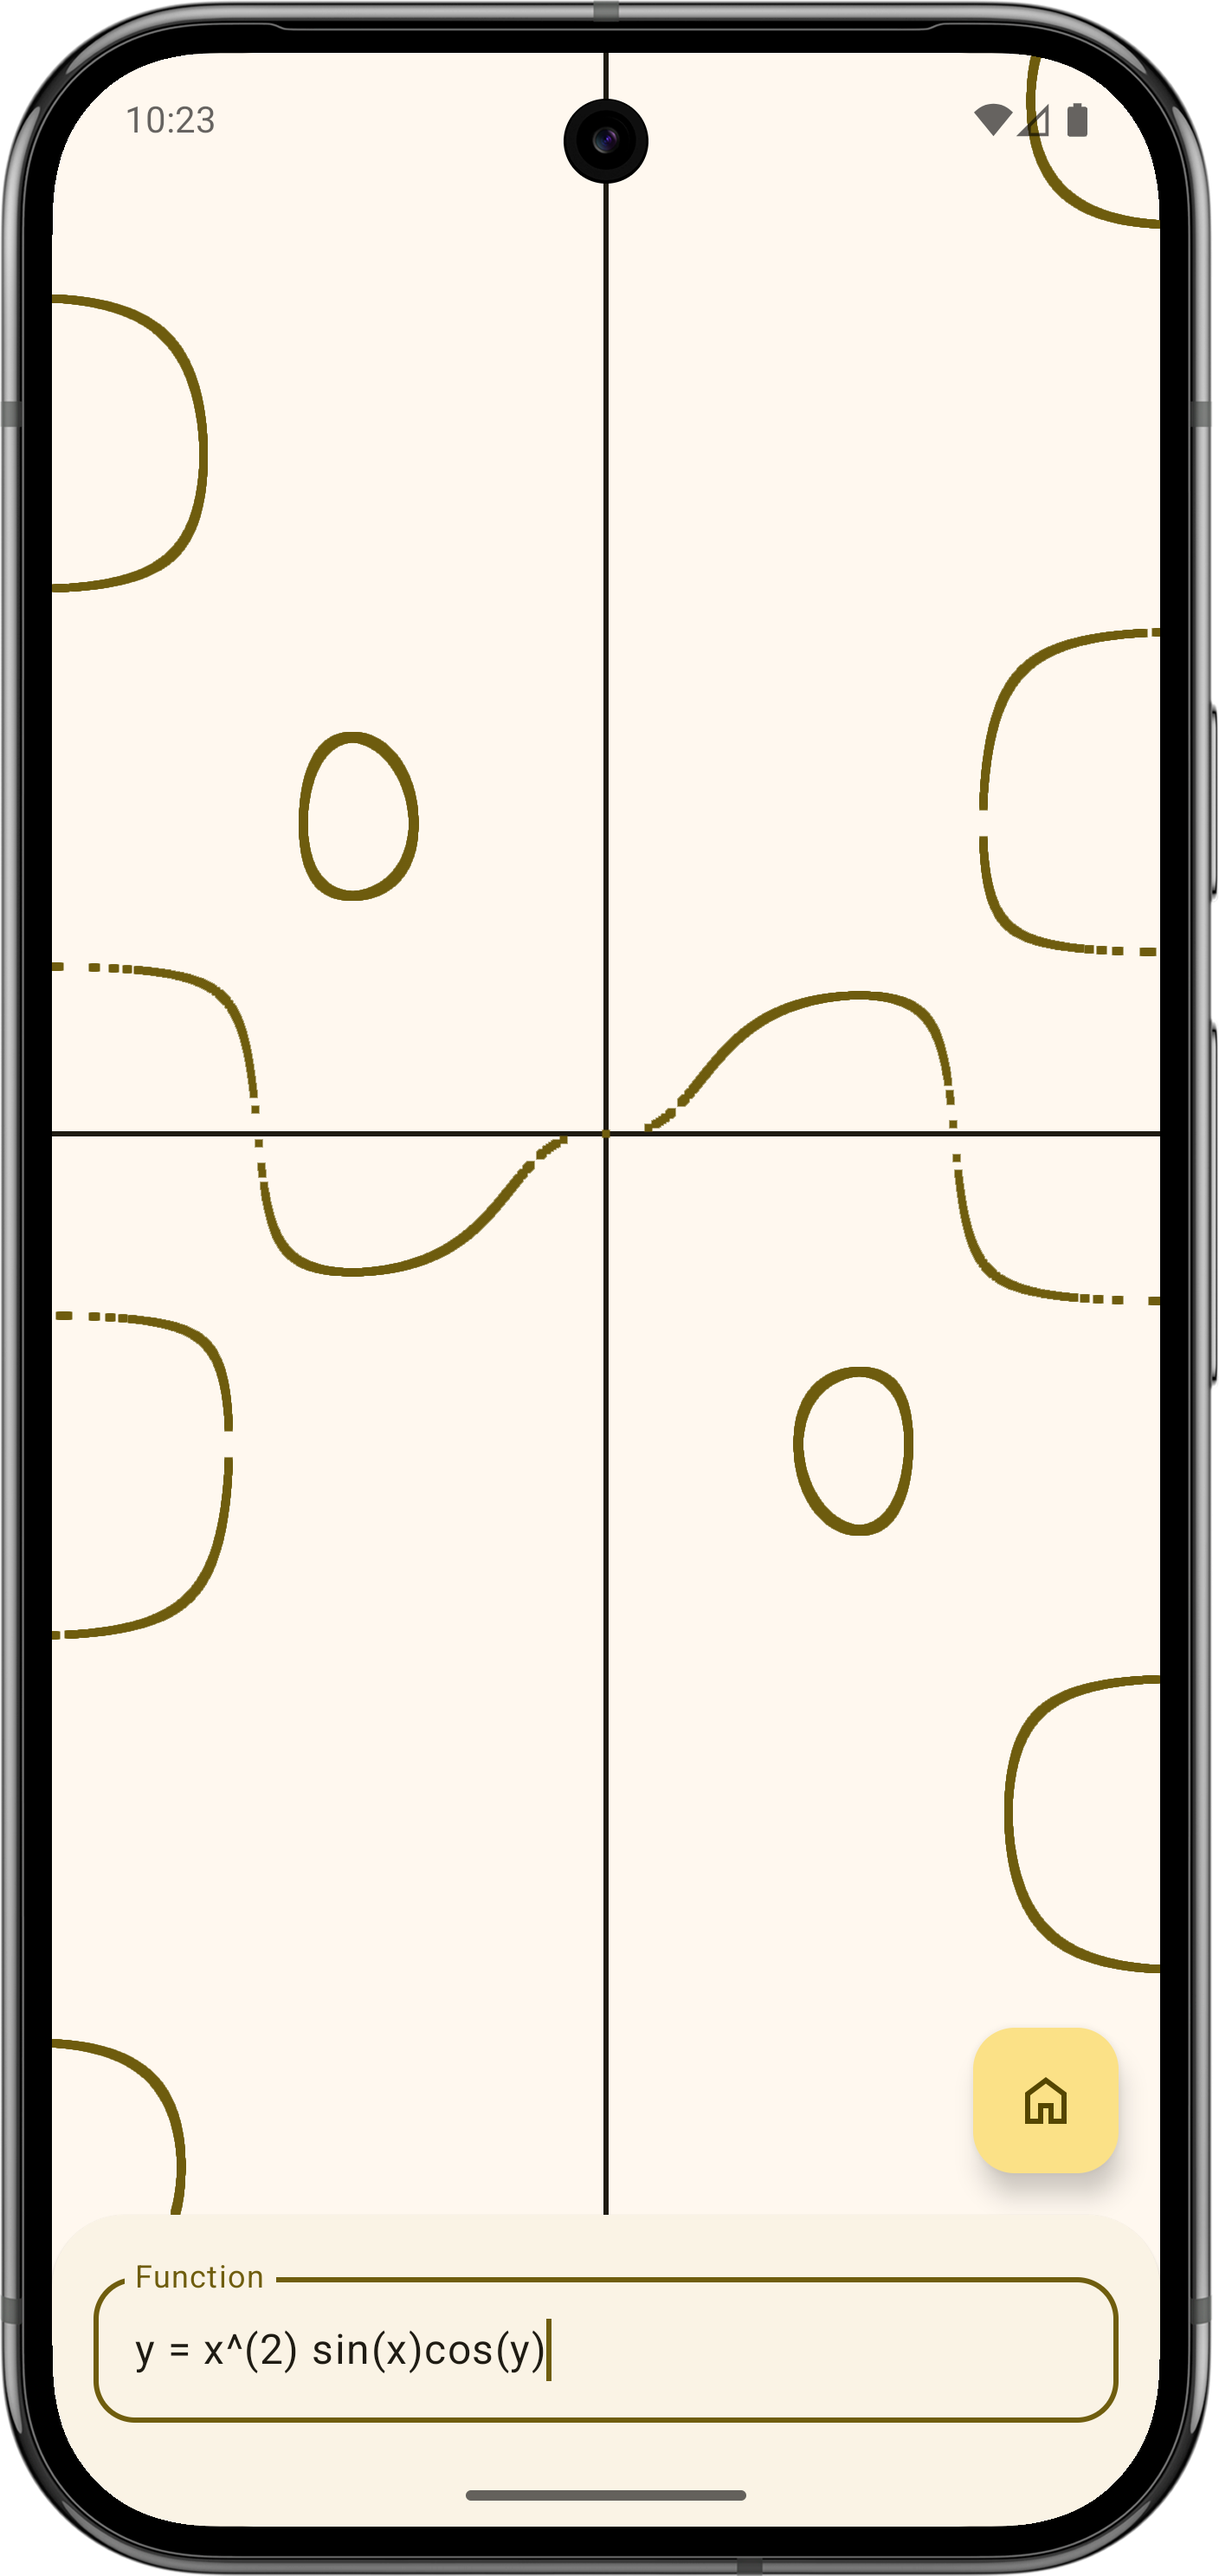
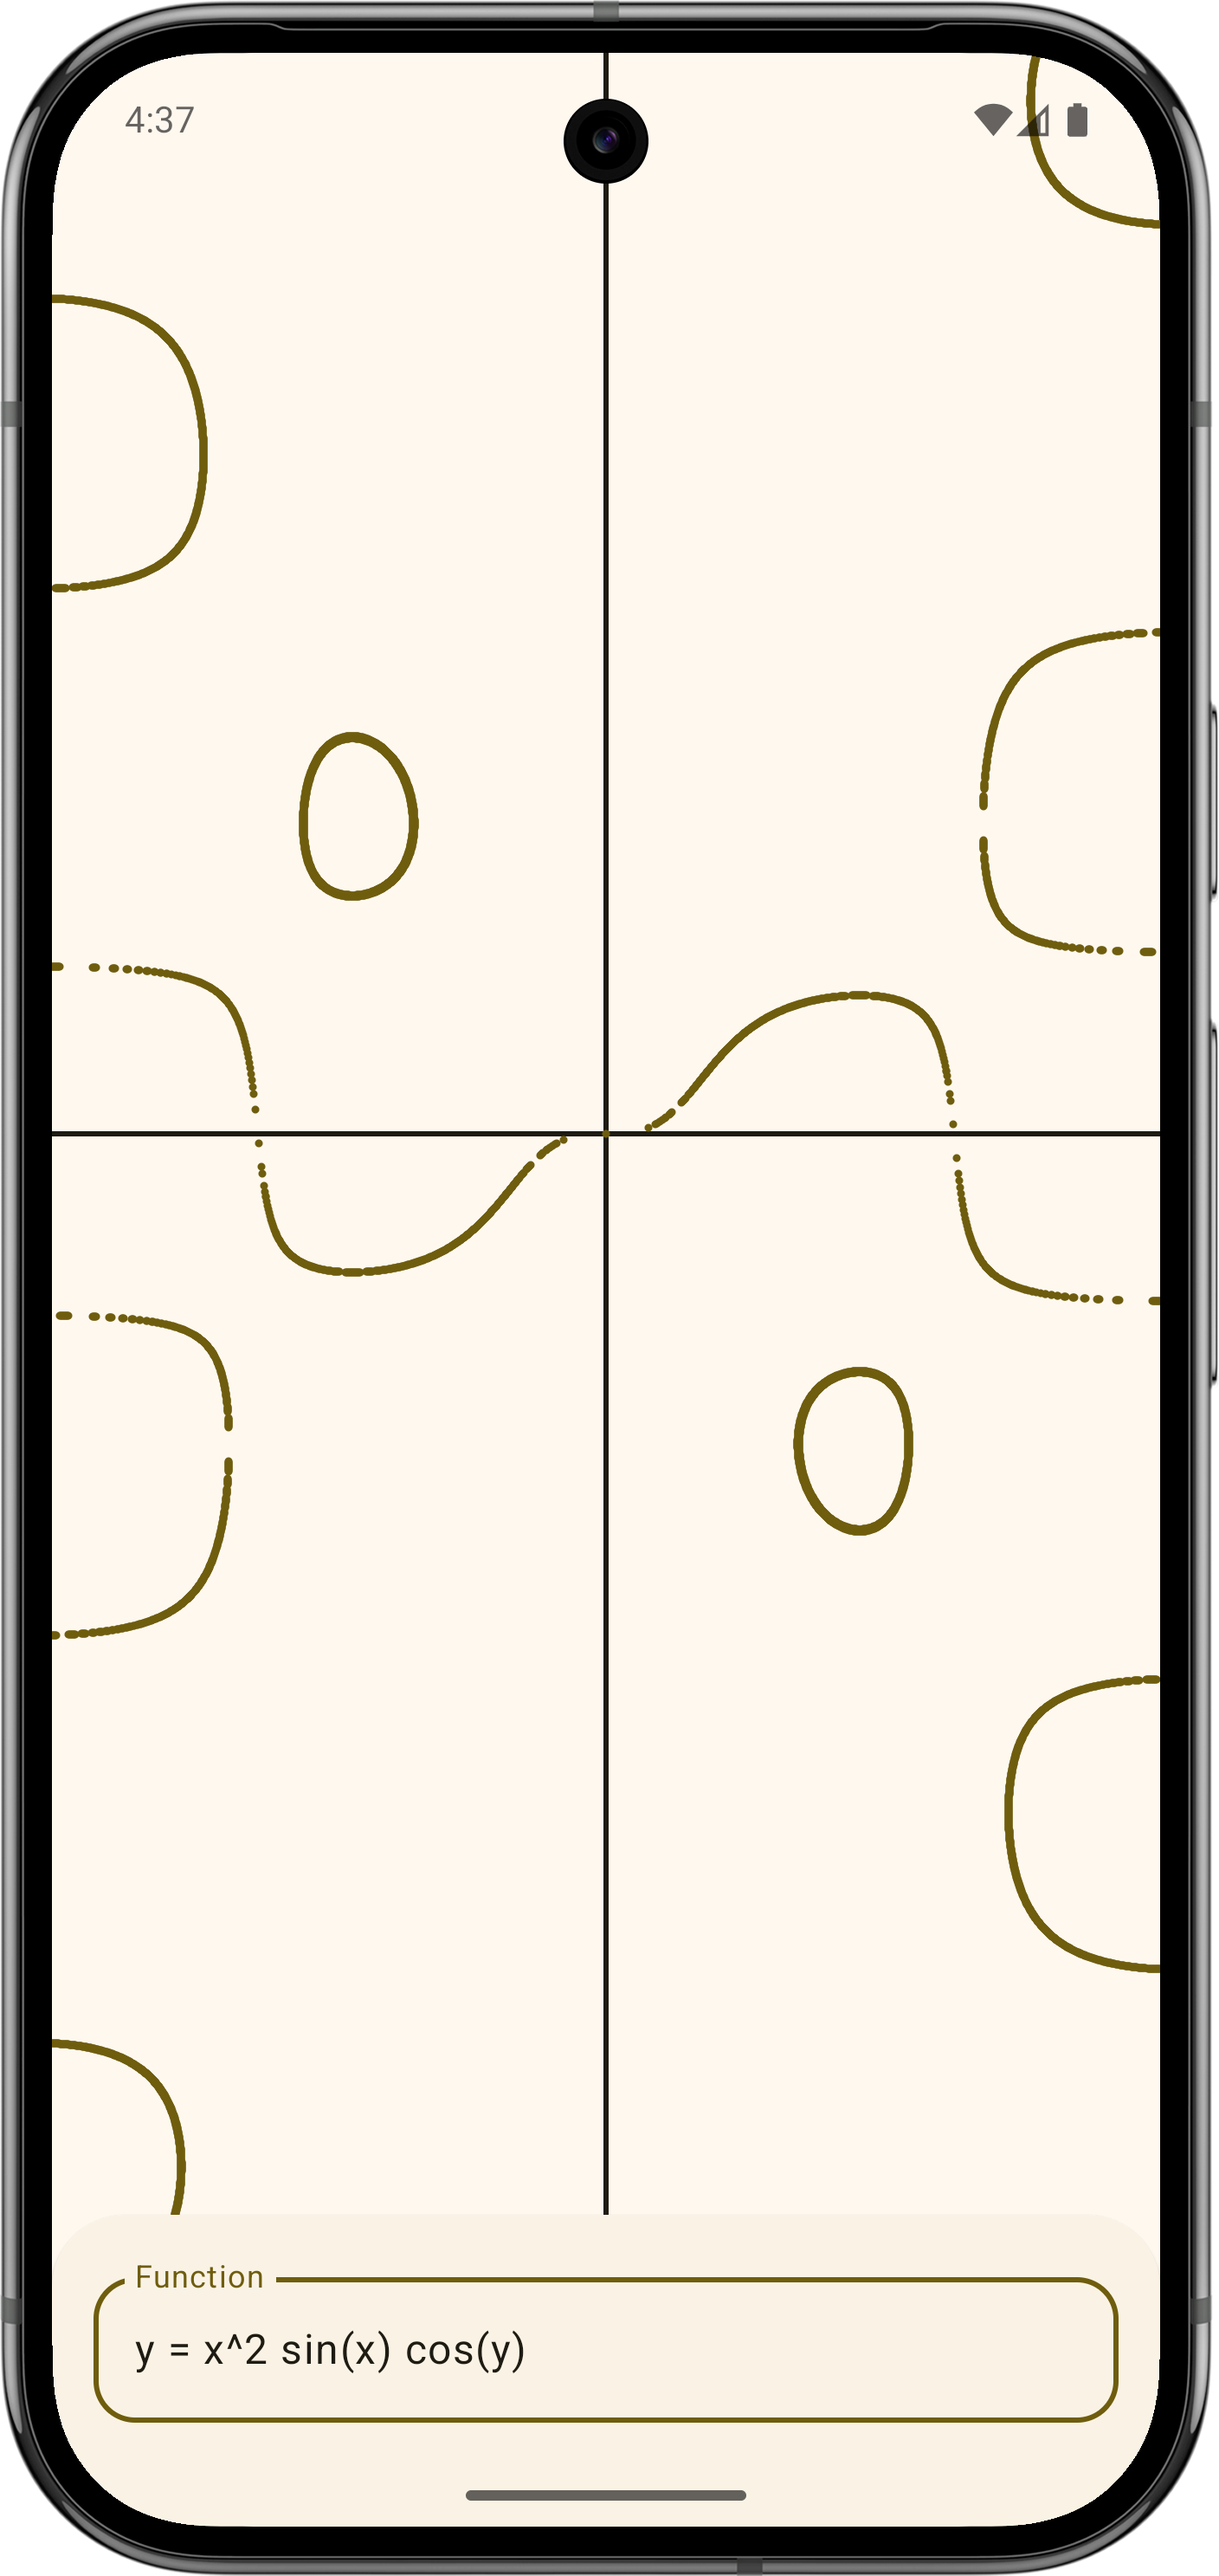
Update screenshots, README

Changed region(s): [[0.7812, 0.7734, 0.9375, 0.8662], [0.1875, 0.8971, 0.4688, 0.928], [0.0938, 0.0309, 0.1562, 0.0619]]

diff --git a/app/src/main/java/org/nsh07/simplygraph/ui/AppScreen.kt b/app/src/main/java/org/nsh07/simplygraph/ui/AppScreen.kt
@@ -48,6 +48,7 @@ import androidx.compose.ui.Modifier
 import androidx.compose.ui.draw.clipToBounds
 import androidx.compose.ui.geometry.Offset
 import androidx.compose.ui.graphics.PointMode
+import androidx.compose.ui.graphics.StrokeCap
 import androidx.compose.ui.res.painterResource
 import androidx.compose.ui.text.input.ImeAction
 import androidx.compose.ui.text.style.TextAlign
@@ -68,7 +69,7 @@ fun AppScreen(modifier: Modifier = Modifier) {
 
     val expandSheet = remember(functionsState.function) {
         functionsState.function.matches(
-            "\\s*r\\s*=\\s*\\S+\\s*|\\s*\\(\\s*\\S+\\s*,\\s*\\S+\\s*\\)\\s*".toRegex()
+            "\\s*r\\s*=.+|\\s*\\(.+,.+\\)\\s*".toRegex()
         )
     }
 
@@ -282,7 +283,8 @@ fun AppScreen(modifier: Modifier = Modifier) {
                             PointMode.Points
                         else PointMode.Polygon,
                     color = colorScheme.primary,
-                    strokeWidth = 3.dp.toPx()
+                    strokeWidth = 3.dp.toPx(),
+                    cap = StrokeCap.Round
                 )
             }
             FloatingActionButton(

diff --git a/README.md b/README.md
@@ -1,9 +1,41 @@
 # SimplyGraph
 
-#### This project is in very early development, and most features are not yet ready
+A simple, fast graphing calculator for Android
+
+Follows the latest Material 3 design guidelines and adapts to the system color (Material You)
+
+Supports explicit and implicit functions and relations, polar functions, and parametric relations
+
+## Screenshots
 
 <p width="100%">
-<img src="screenshot.png" width="30%">
-<img src="screenshot2.png" width="30%">
-<img src="screenshot3.png" width="30%">
+<img src="screenshot.png" width="24%">
+<img src="screenshot2.png" width="24%">
+<img src="screenshot3.png" width="24%">
+<img src="screenshot4.png" width="24%">
 </p>
+
+## How it works
+
+This app utilises JNI to offload the graph point calculation to native C++ for extremely fast
+calculation of points (at least a few orders of magnitude improvement over Kotlin code in my own
+benchmarks). The basic layout of how it works is:
+
+- (Steps)
+
+1. Function string input by user
+2. JNI function called: Function string, canvas geometry data, scale and offset are passed
+3. JNI performs C++ function call passing all the data
+4. C++ function returns std::vector<float> containing point data
+5. JNI returns array of floats
+6. Points are plotted on Jetpack Compose Canvas
+
+The exact working is slightly more complex, for example the C++ point calculation function analyses
+the function string to determine whether it is explicit, implicit, polar or parametric and performs
+the calculations accordingly, and also simplifies the graph if there are too many points to save
+memory and drawing time.
+
+### Special thanks
+
+- This app uses [ExprTk](https://github.com/ArashPartow/exprtk) to evaluate mathematical
+  expressions. Thanks to Arash Partow for creating this library.
